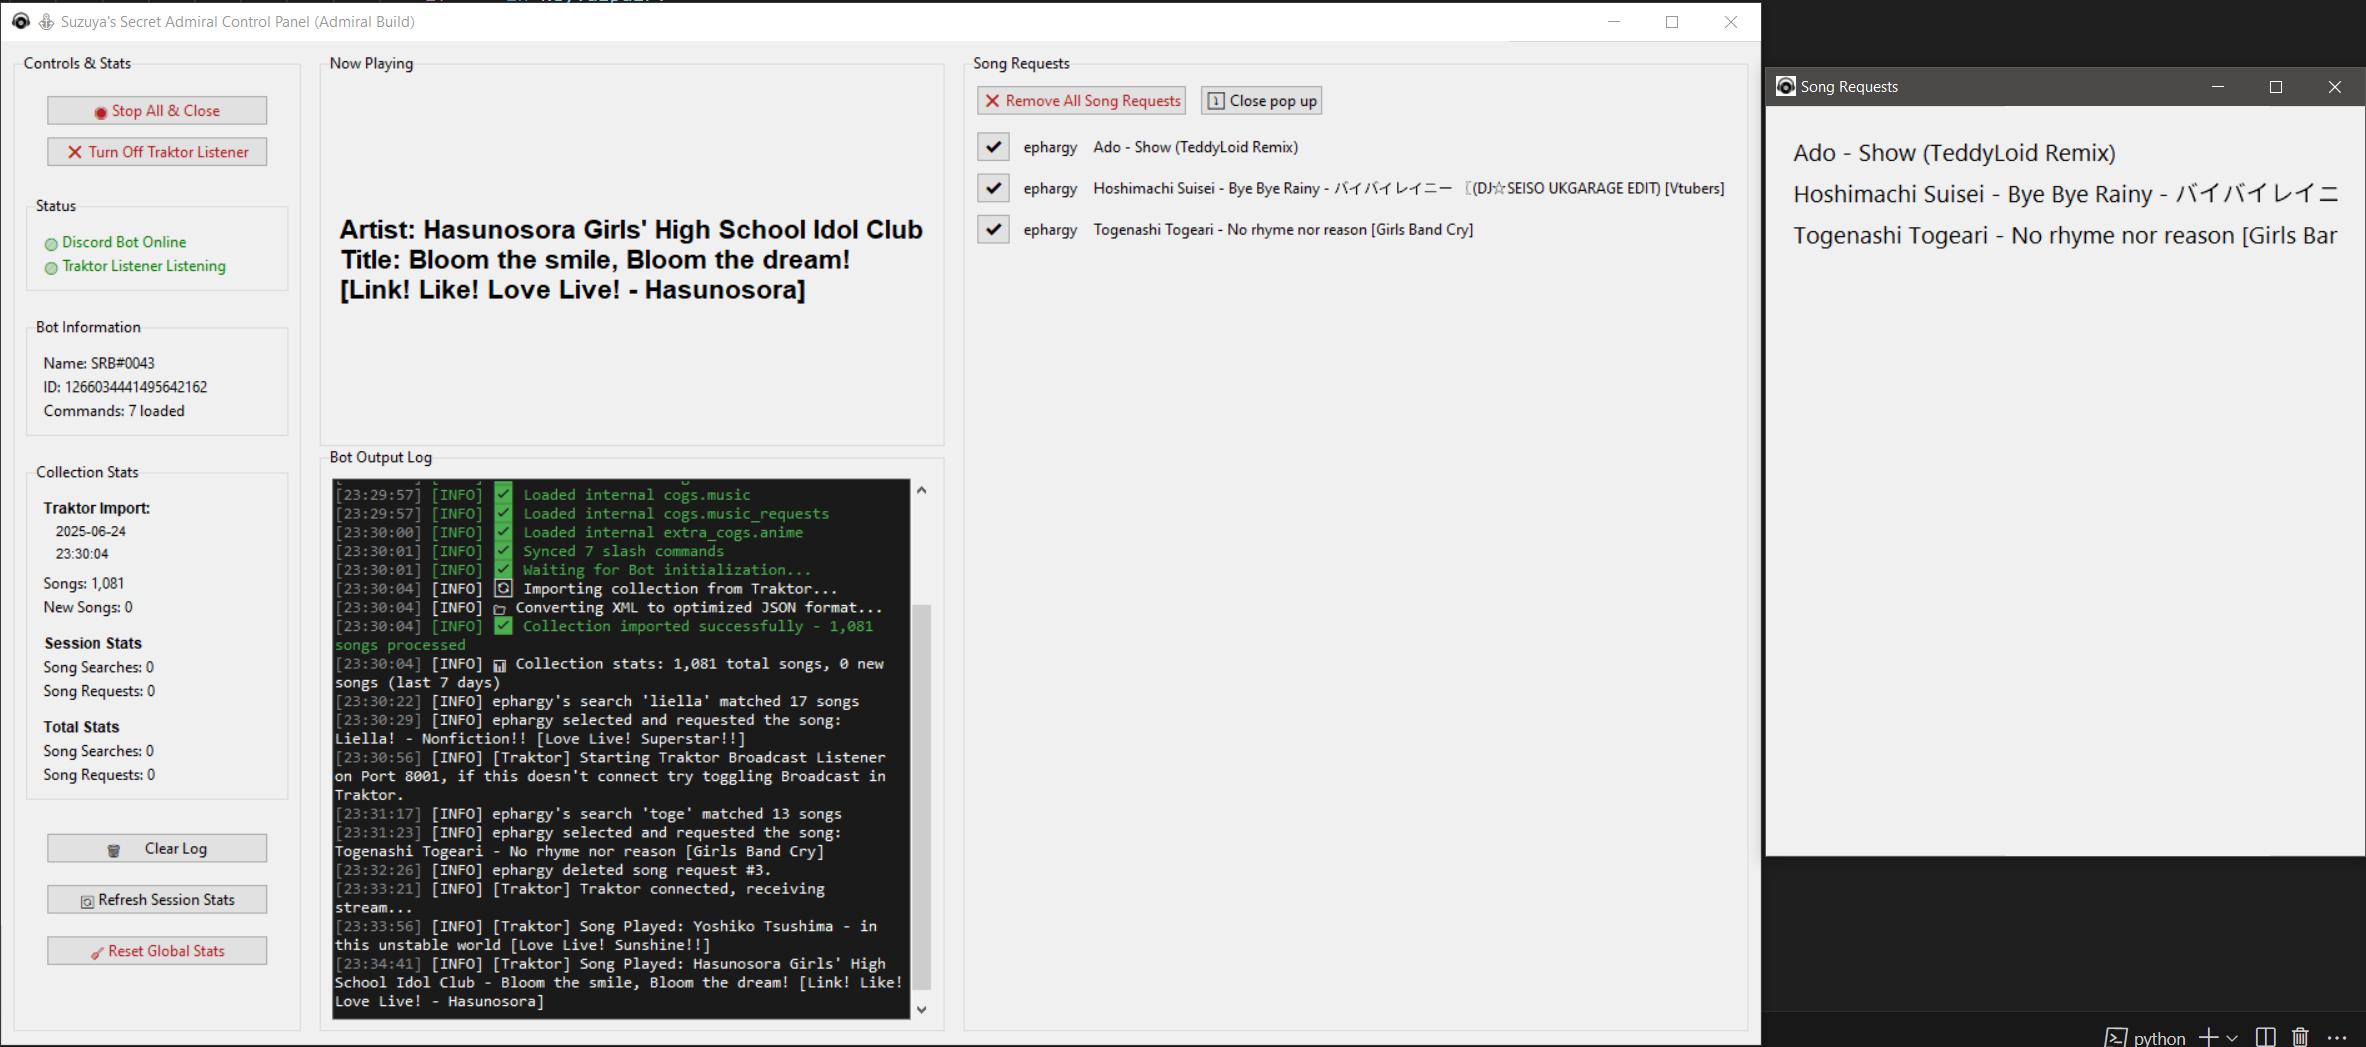
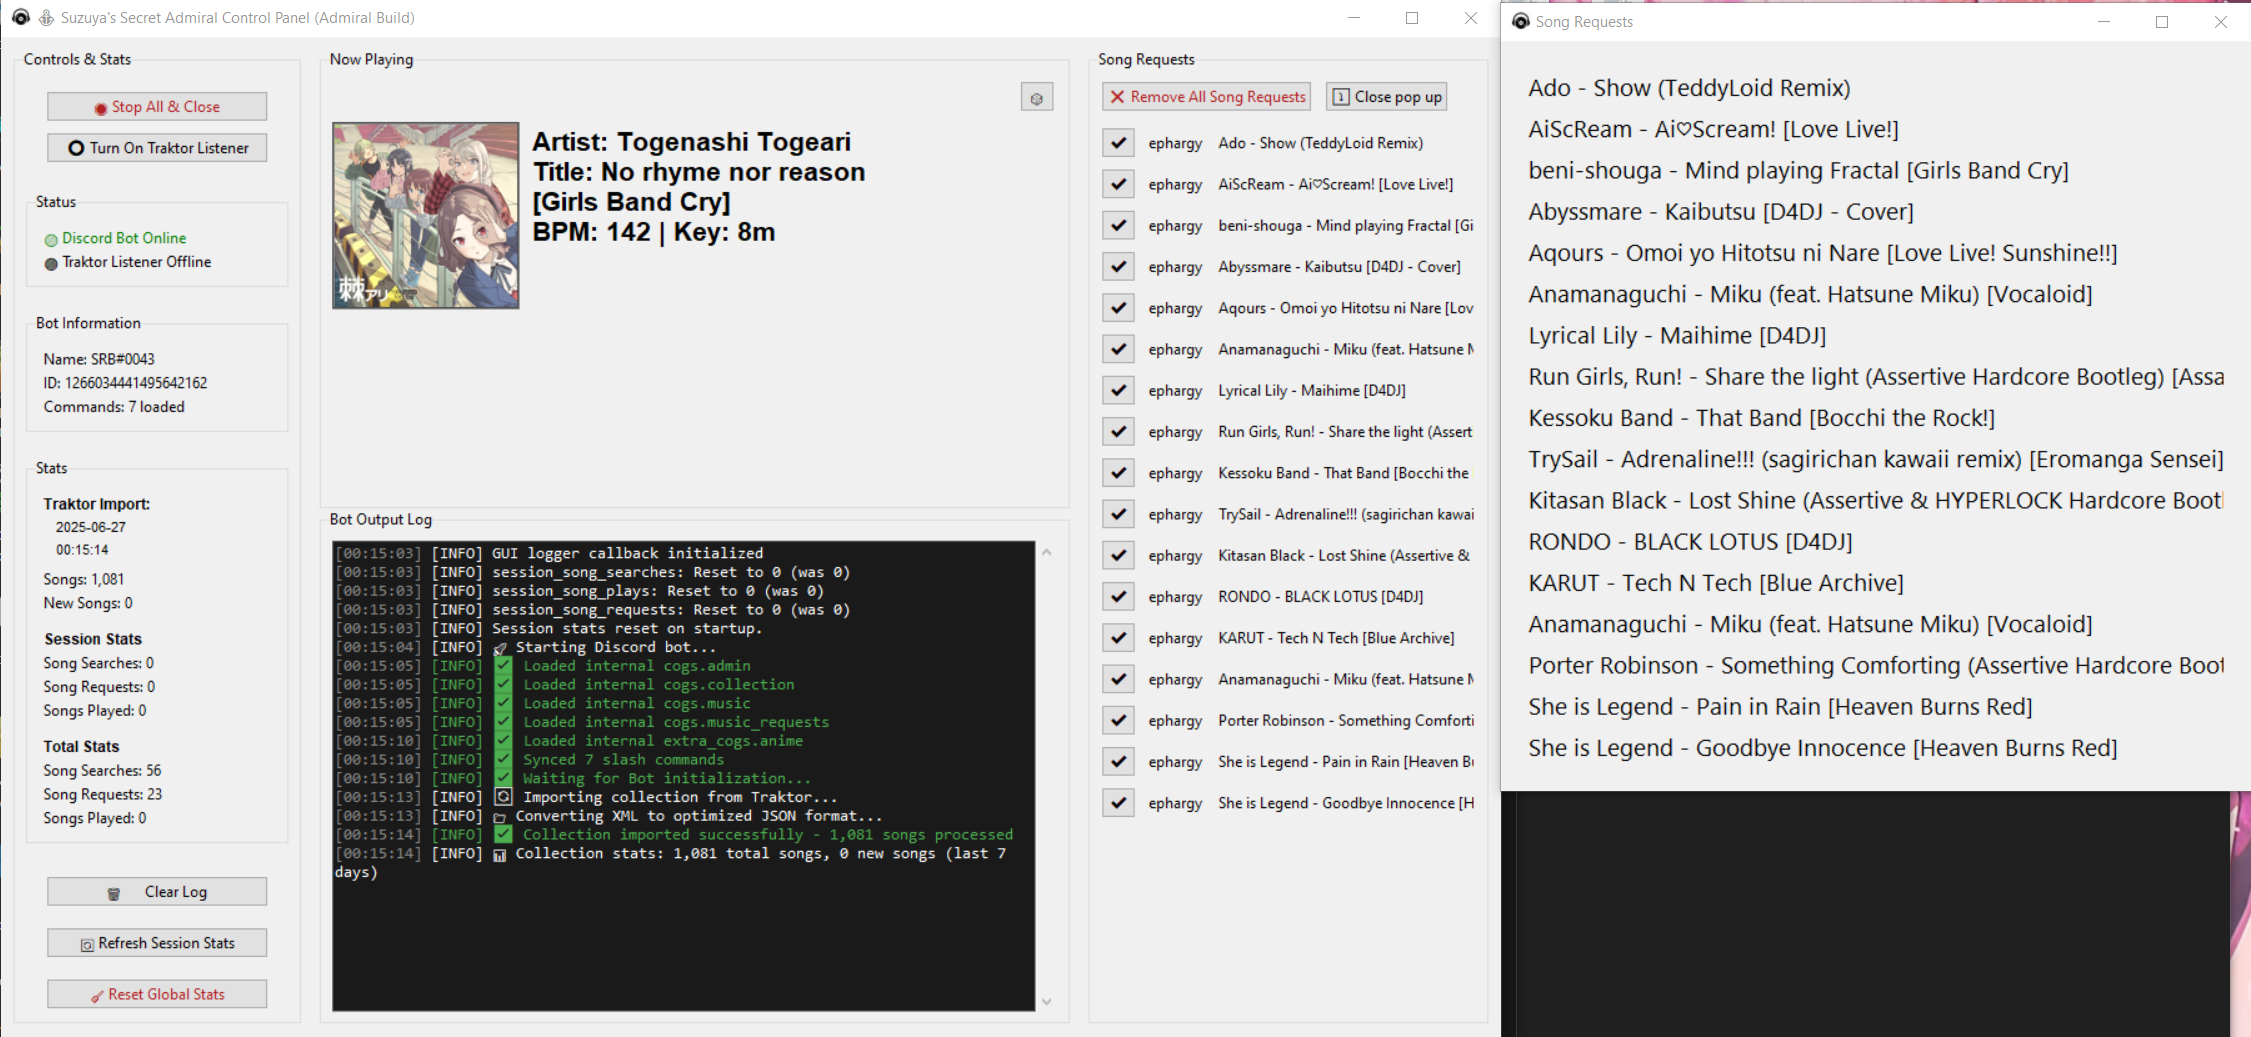
v1.5.1 - Covert & and meta data fix for live songs

diff --git a/utils/coverart.py b/utils/coverart.py
@@ -15,38 +15,6 @@ except ImportError:
 
 from utils.logger import debug, info, warning, error
 
-def get_coverart_path(traktor_location: str, version_folder: str, coverart_id: str) -> str:
-    """
-    Build the full path to the cover art file given the Traktor root, version, and coverart string (e.g., '039/HNQ02OBHLMIWDCIJDEG0AVRGRPMB').
-    """
-    folder, filename = coverart_id.split("/")
-    path = os.path.join(traktor_location, version_folder, "Coverart", folder, filename + "000")
-    info(f"[CoverArt] Resolved cover art path: {path}")
-    return path
-
-
-def decompress_coverart_file(filepath: str) -> Optional[bytes]:
-    """
-    Decompress a Traktor cover art file (Zstd) and return the raw image bytes (JPEG/PNG/etc).
-    Returns None if zstandard is not installed or file is missing/corrupt.
-    """
-    if zstd is None:
-        warning("[CoverArt] zstandard module not installed; cannot decompress cover art.")
-        return None
-    if not os.path.exists(filepath):
-        warning(f"[CoverArt] Cover art file does not exist: {filepath}")
-        return None
-    try:
-        with open(filepath, "rb") as f:
-            dctx = zstd.ZstdDecompressor()
-            decompressed = dctx.decompress(f.read())
-            info(f"[CoverArt] Decompressed cover art file: {filepath} ({len(decompressed)} bytes)")
-            return decompressed
-    except Exception as e:
-        error(f"[CoverArt] Error decompressing cover art file {filepath}: {e}")
-        return None
-
-
 def load_coverart_image(image_bytes: bytes) -> Optional[Any]:  # Returns PIL.Image.Image or None
     """
     Load a PIL Image from decompressed image bytes.
@@ -62,17 +30,3 @@ def load_coverart_image(image_bytes: bytes) -> Optional[Any]:  # Returns PIL.Ima
     except Exception as e:
         error(f"[CoverArt] Error loading cover art image from bytes: {e}")
         return None
-
-
-def get_coverart_image(traktor_location: str, version_folder: str, coverart_id: str) -> Optional[Any]:  # Returns PIL.Image.Image or None
-    """
-    High-level utility: get a PIL Image for a given coverart_id.
-    Returns None if not available or on error.
-    """
-    info(f"[CoverArt] Attempting to load cover art: location={traktor_location}, version={version_folder}, id={coverart_id}")
-    path = get_coverart_path(traktor_location, version_folder, coverart_id)
-    image_bytes = decompress_coverart_file(path)
-    if image_bytes:
-        return load_coverart_image(image_bytes)
-    warning(f"[CoverArt] No image bytes returned for cover art id: {coverart_id}")
-    return None

diff --git a/services/traktor_listener.py b/services/traktor_listener.py
@@ -16,7 +16,7 @@ import json
 from datetime import datetime
 from config.settings import Settings
 
-COLLECTION_PATH = 'collection.json'
+COLLECTION_PATH = Settings.COLLECTION_JSON_FILE
 
 def create_traktor_handler(status_queue, shutdown_event):
     class TraktorListenerHandler(http.server.BaseHTTPRequestHandler):

diff --git a/gui_components/gui_now_playing.py b/gui_components/gui_now_playing.py
@@ -5,7 +5,6 @@ import random
 from config.settings import Settings
 from utils.traktor import load_collection_json
 from utils.harmonic_keys import open_key_int_to_str
-from utils.coverart import get_coverart_image
 import os
 from PIL import ImageTk
 from utils.logger import debug, info, warning, error

diff --git a/TODO-Main.md b/TODO-Main.md
@@ -3,9 +3,33 @@
 ## NowPlaying Replacement
 - [ ] Replicate NowPlaying functionality within the bot/GUI
     - [X] Listen to Traktor output/port for song data
-    - [ ] Display current playing track, artist, album, cover art, etc.
+    - [X] Display current playing track, artist, album, cover art, etc.
     - [ ] Generate a styled webpage (with CSS/animations) for OBS integration
     - [ ] Slide in/out animation for song changes
+
+## Animated Popup Window for Now Playing
+- [ ] Create animated popup window for clean cover art and song info display
+- [ ] Implement slide transitions (old song slides down, new song slides up)
+- [ ] Test different animation approaches:
+    - [ ] Tkinter with `place()` and `after()` (30-40fps, good enough)
+    - [ ] Pygame integration (60fps+, buttery smooth)
+    - [ ] Web-based popup with CSS animations (60-120fps, professional grade)
+- [ ] Add easing functions for smoother feel even at lower framerates
+
+## Visual Enhancement Features
+- [ ] YouTube video integration for background visualizations
+    - [ ] Research YouTube API + embedded player approach
+    - [ ] Test local video player integration with `yt-dlp` + `opencv-python`
+    - [ ] Implement local caching system for downloaded videos
+- [ ] Google Images integration as alternative/fallback
+    - [ ] Set up Google Custom Search API
+    - [ ] Implement image caching and random selection
+    - [ ] Create franchise-based image organization
+- [ ] Smart caching system:
+    - [ ] Priority downloading for most-played tracks
+    - [ ] Background downloads during idle time
+    - [ ] Auto-cleanup of old/unused content
+    - [ ] Size limits and storage management
 
 ## Additional Ideas & Suggestions
 - [ ] Customizable appearance for the OBS overlay (themes, colors)
@@ -28,43 +52,6 @@
 
 ---
 
-## Traktor Cover Art Extraction & Display Plan
-
-1. **File Path Construction**
-   - Use the stored coverart string (e.g., `039/HNQ02OBHLMIWDCIJDEG0AVRGRPMB`) to build the full file path:
-     `{TRAKTOR_LOCATION}\{latest_version}\Coverart\{folder}\{filename}000`
-   - Use existing logic to find the latest Traktor version folder.
-
-2. **File Format**
-   - Traktor cover art files are Zstandard (Zstd) compressed, usually containing a JPEG or PNG image.
-   - The `000` suffix is the largest version; `001`, `002`, etc. are smaller thumbnails.
-
-3. **Decompression & Image Extraction**
-   - Use the `zstandard` Python library to decompress the file.
-   - Extract the image data (likely JPEG/PNG) from the decompressed bytes.
-   - Use `Pillow` (PIL) to load/display the image from bytes.
-
-4. **Display in GUI**
-   - Show the cover art in the GUI near the current/selected song details.
-   - If direct display isn’t possible, write the decompressed image to a temp file and load it.
-   - Optionally cache decompressed images for performance.
-
-5. **Fallbacks & Error Handling**
-   - If the file isn’t Zstd or is corrupt, show a default "no cover art" image.
-   - If the image format inside isn’t supported, try to detect and convert it.
-   - Fallback to template image? 
-
-6. **Python Tools Needed**
-   - `zstandard` for decompression (`pip install zstandard`)
-   - `Pillow` for image handling (`pip install pillow`)
-
-7. **Next Steps**
-   - Implement a utility function:
-     - Input: coverart string, TRAKTOR_LOCATION
-     - Output: PIL Image object (or path to temp image file)
-   - Integrate with GUI for cover art display.
-
----
 
 **(Plan added by Suzuya & Kumano, so you don’t forget, Admiral! Sleep tight~)**
 
